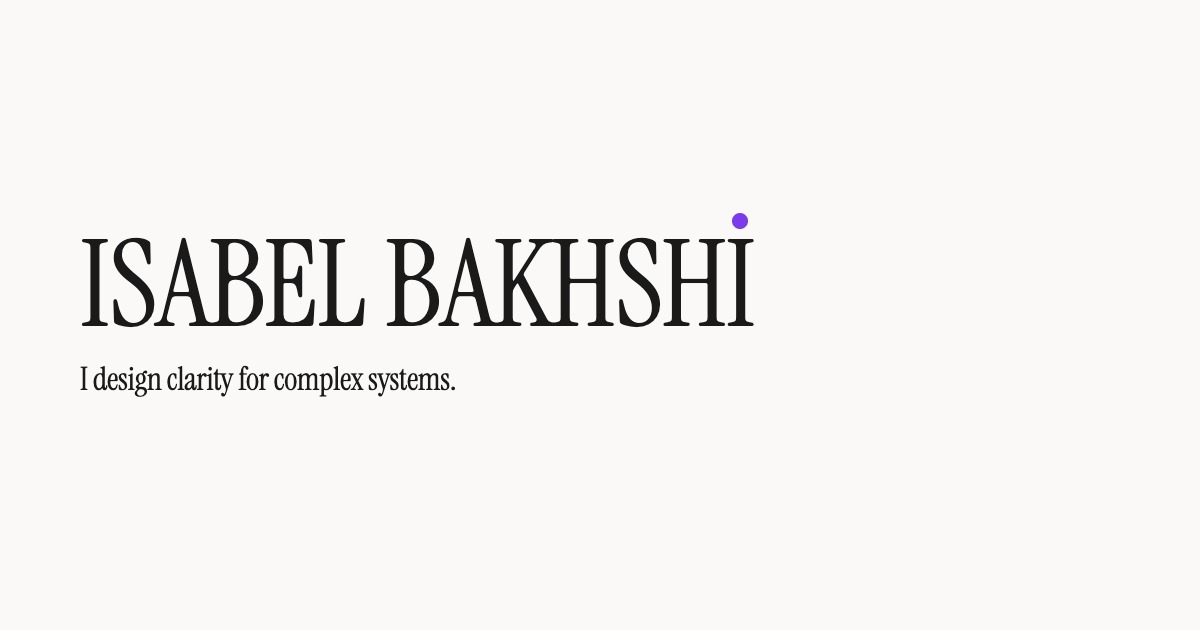
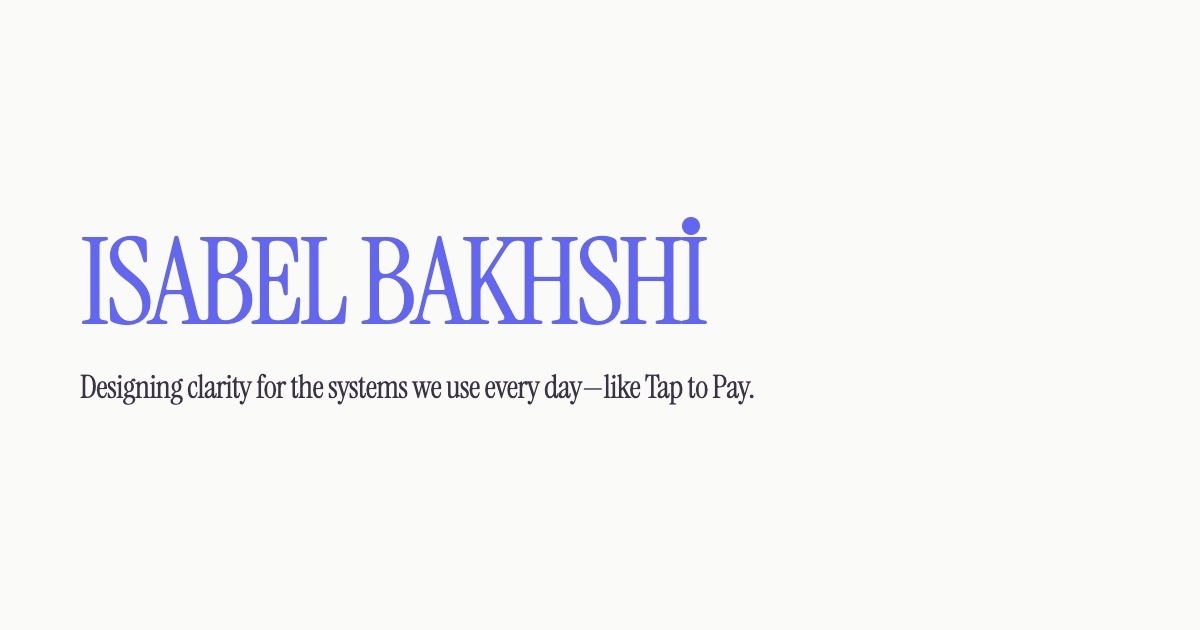
Update OG image HTML and replace image file. Modified font styles, colors, and tagline for improved design clarity. Adjusted layout properties for better visual presentation.

Changed region(s): [[0.0617, 0.3317, 0.6475, 0.5429], [0.0617, 0.573, 0.6475, 0.6333]]

diff --git a/og-image.html b/og-image.html
@@ -3,14 +3,14 @@
 <head>
     <meta charset="UTF-8">
     <title>OG Image - Isabel Bakhshi | 1200×630</title>
-    <link href="https://fonts.googleapis.com/css2?family=Instrument+Serif&family=IBM+Plex+Mono:wght@500;600&display=swap" rel="stylesheet">
+    <link href="https://fonts.googleapis.com/css2?family=Instrument+Serif:ital@0;1&family=Source+Sans+3:wghhot@400;500;600&display=swap" rel="stylesheet">
     <style>
         * { margin: 0; padding: 0; box-sizing: border-box; }
         html, body { overflow: hidden; }
         body {
             width: 1200px;
             height: 630px;
-            background-color: #FAF9F7;
+            background-color: #fafaf9;
             position: relative;
         }
         .container {
@@ -24,32 +24,24 @@
             font-family: 'Instrument Serif', Georgia, serif;
             font-size: 120px;
             font-weight: 400;
-            line-height: 0.9;
-            letter-spacing: -0.01em;
+            line-height: 1;
+            letter-spacing: -0.04em;
             text-transform: uppercase;
-            color: #1a1a1a;
+            color: #6366f1;
         }
         .dotted-i {
             position: relative;
             display: inline-block;
-            color: transparent;
-        }
-        .dotted-i::after {
-            content: 'I';
-            position: absolute;
-            left: 0;
-            top: 0;
-            color: #1a1a1a;
-            font-weight: 400;
+            color: #6366f1;
         }
         .dotted-i::before {
             content: '';
             position: absolute;
-            width: 16px;
-            height: 16px;
-            background-color: #7c3aed;
+            width: 18px;
+            height: 18px;
+            background-color: #6366f1;
             border-radius: 50%;
-            top: -0.15em;
+            top: -0.05em;
             left: 50%;
             transform: translateX(-50%);
             z-index: 1;
@@ -59,16 +51,17 @@
             font-size: 32px;
             font-weight: 400;
             line-height: 1.25;
-            letter-spacing: -0.01em;
-            color: #1a1a1a;
-            margin: 20px 0 0 0;
+            letter-spacing: -0.02em;
+            color: #3a3245;
+            margin: 24px 0 0 0;
+            max-width: 90%;
         }
     </style>
 </head>
 <body>
     <div class="container">
         <h1 class="name">ISABEL BAKHSH<span class="dotted-i">I</span></h1>
-        <p class="tagline">I design clarity for complex systems.</p>
+        <p class="tagline">Designing clarity for the systems we use every day—like Tap to Pay.</p>
     </div>
 </body>
 </html>
